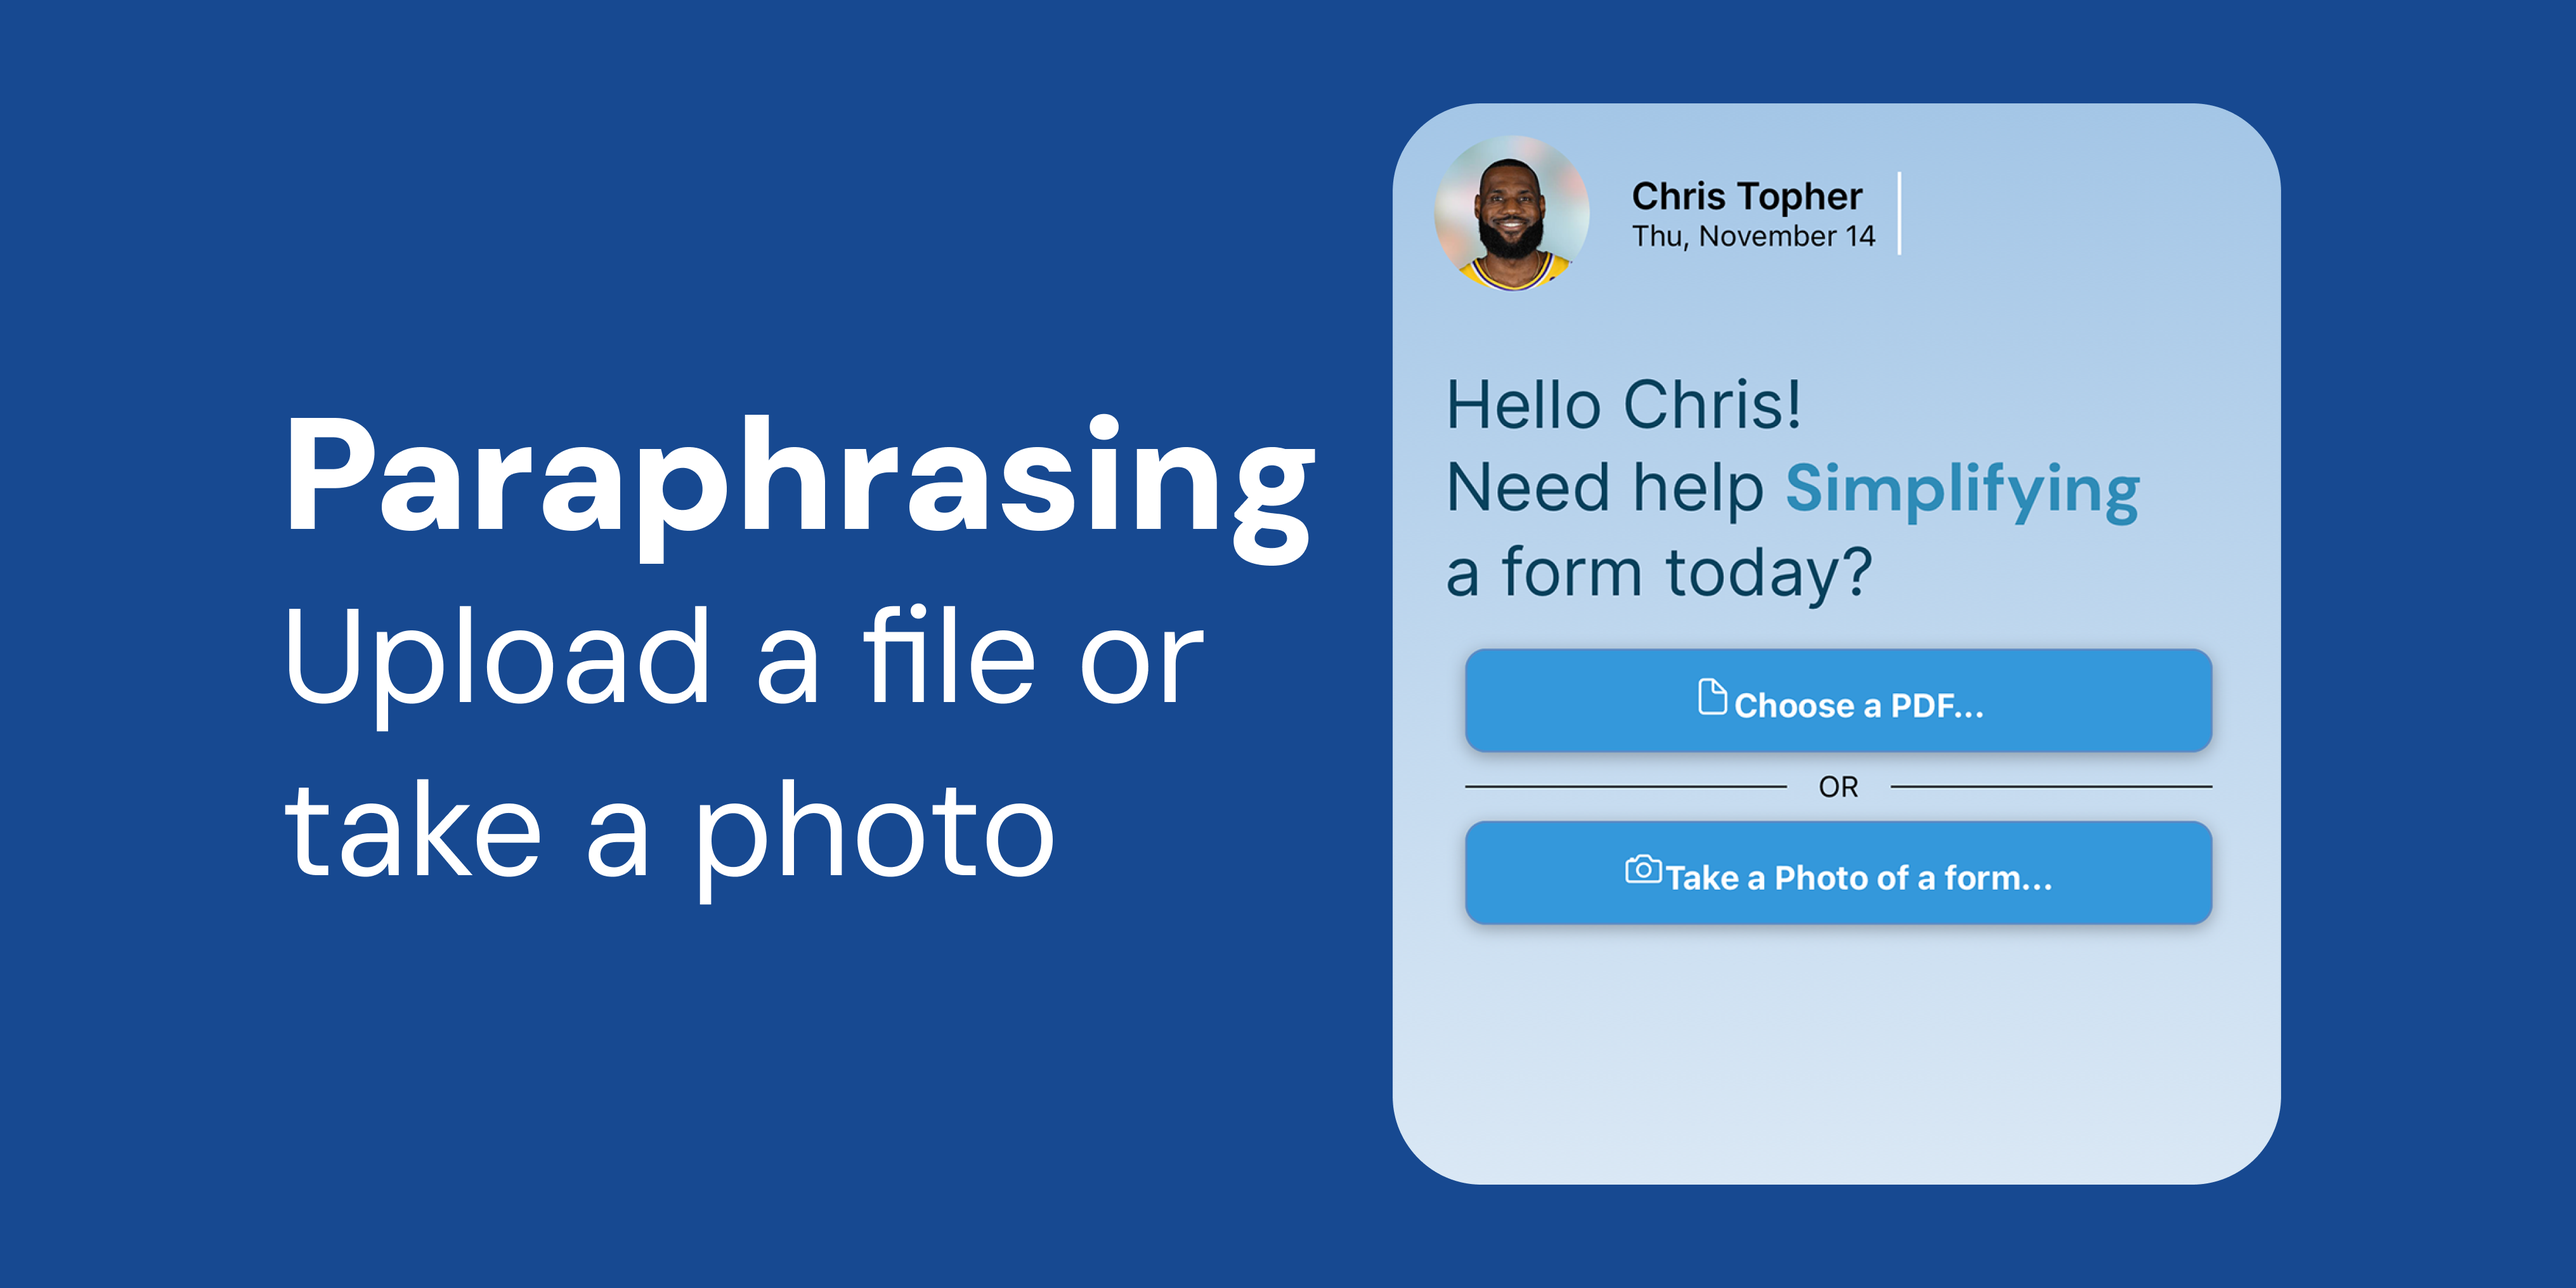
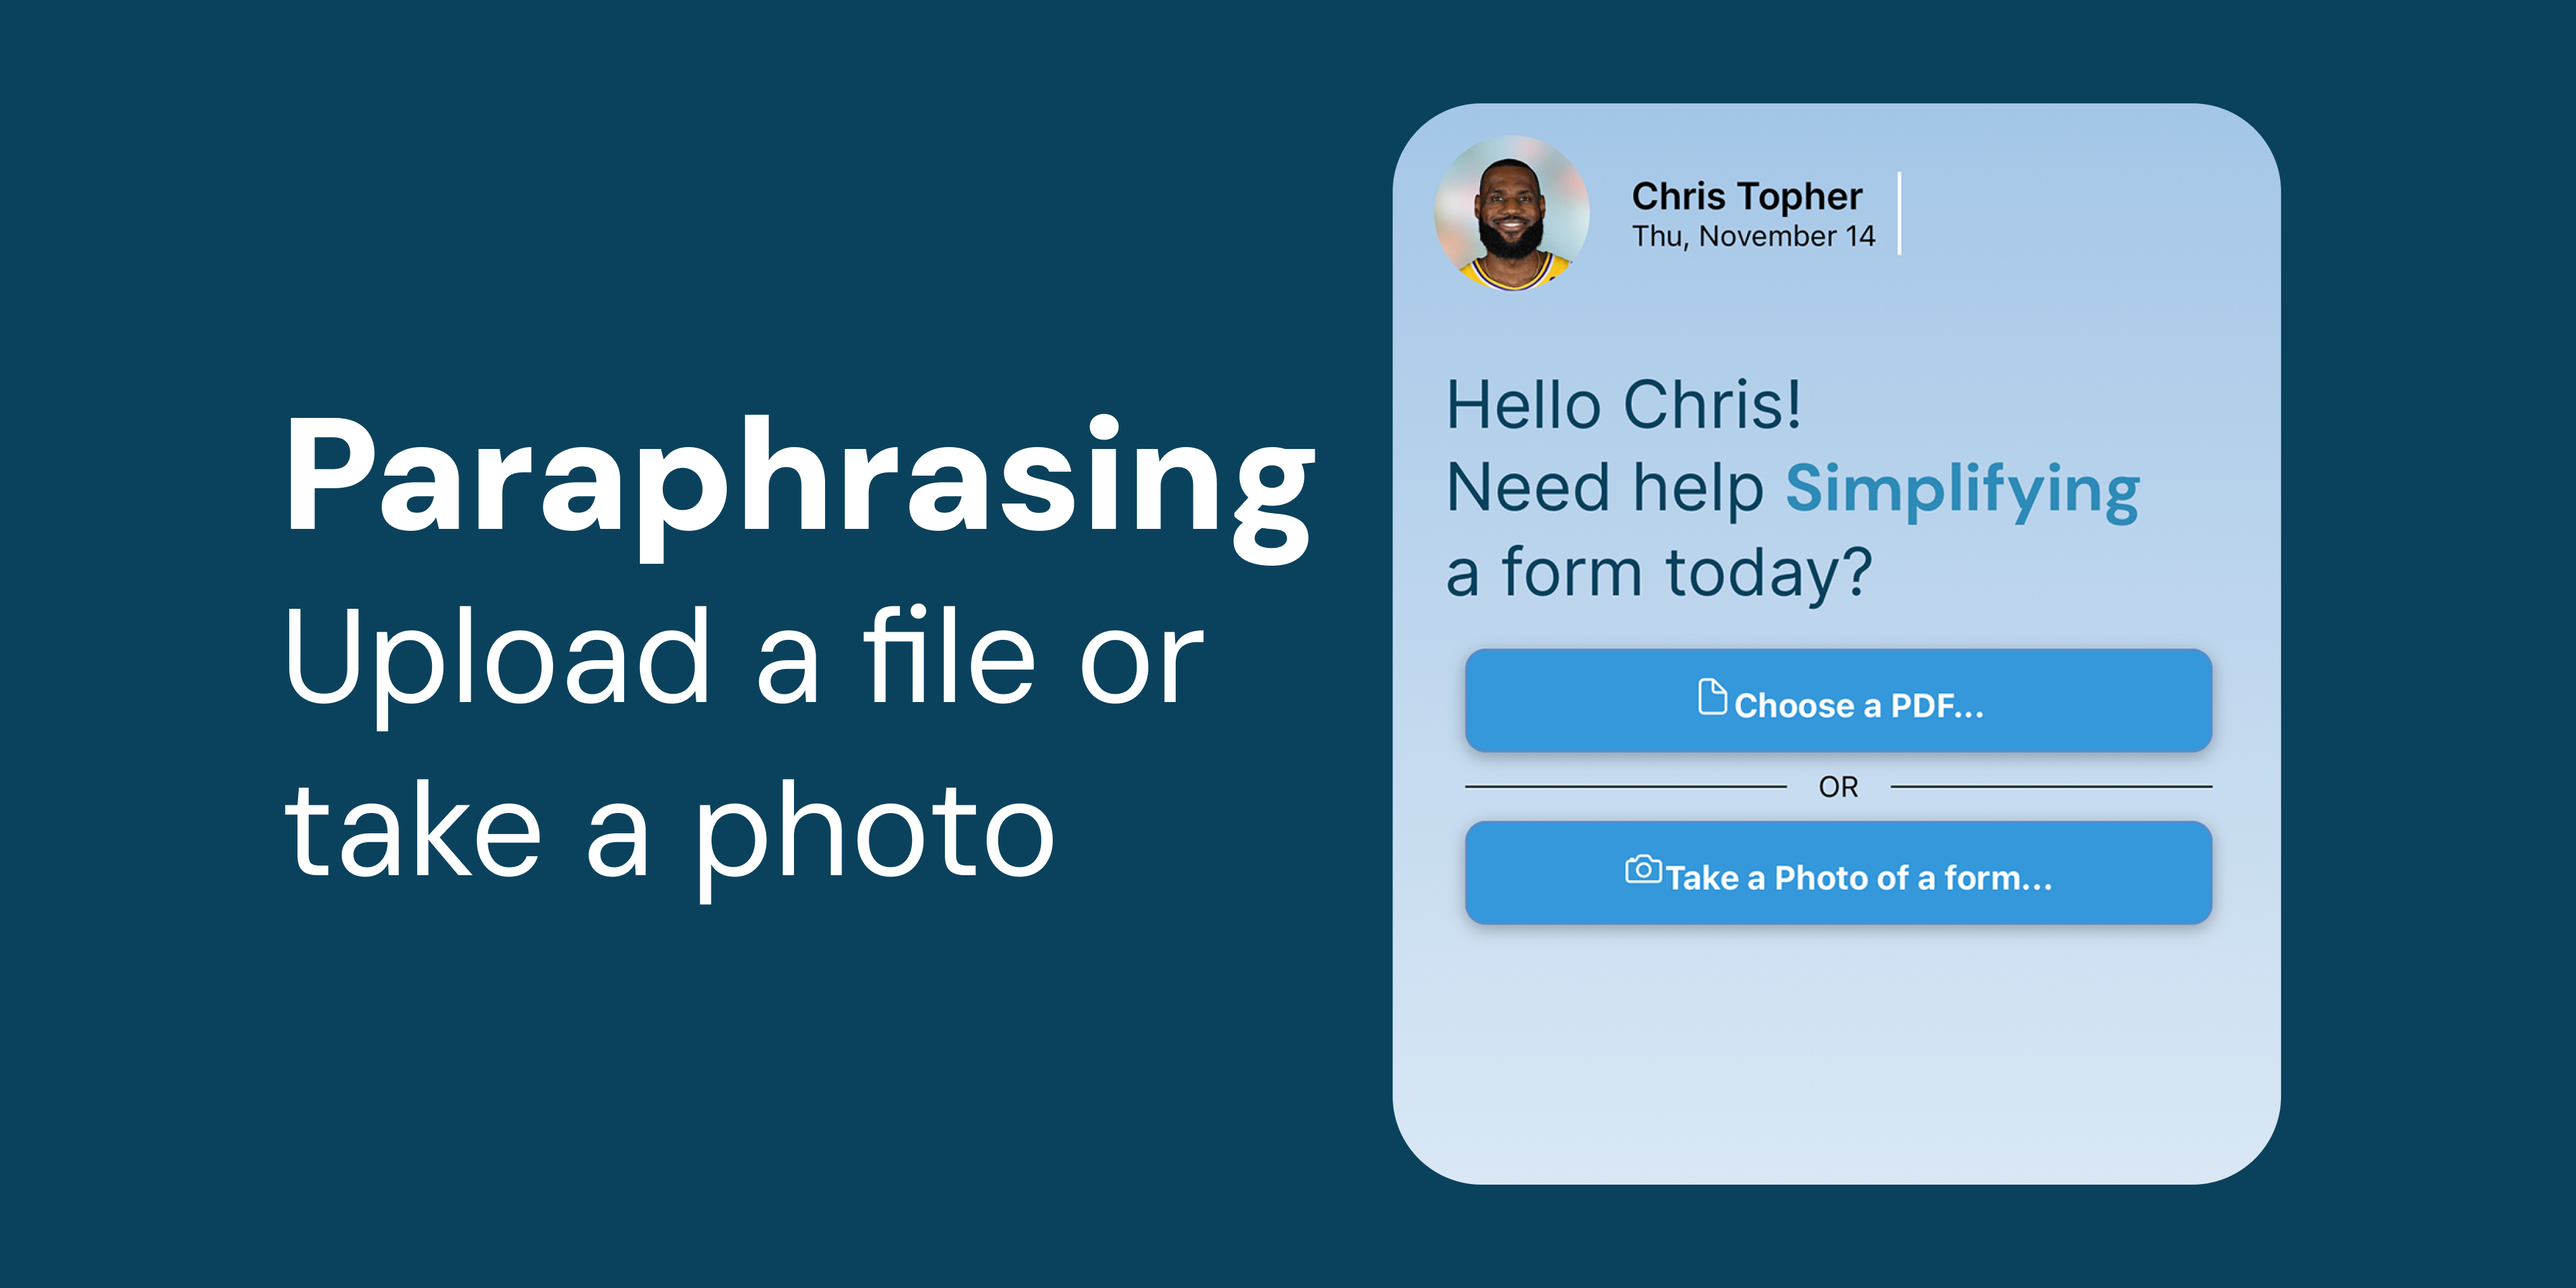
changing background colours, buttons, and adding photos

diff --git a/css/style.css b/css/style.css
@@ -20,9 +20,9 @@ img {
   --text-light: #333333;
   --background-dark: #000000;
   --text-dark: #ffffff;
-  --primary-color: #174991;
-  --secondary-color: #115cad;
-  --hover-color: #10428a;
+  --primary-color: #0a425d;
+  --secondary-color: #207fa6;
+  --hover-color: #0a425d;
   --border-color: #ddd;
   --card-background-light: #f9f9f9;
   --card-background-dark: #1e1e1e;
@@ -218,7 +218,7 @@ body {
 
 .blog-card:nth-child(2) img {
   object-fit: contain;
-  background-color: #174991;
+  background-color: #0a425d;
   object-position: center;
 }
 
@@ -232,14 +232,14 @@ body {
 }
 
 .blog-card:nth-child(5) img {
-  background-color: #174991;
+  background-color: #0a425d;
   object-fit: contain;
   object-position: center;
 }
 
 .blog-card:nth-child(6) img {
   object-position: center;
-  background-color: #174991;
+  background-color: #0a425d;
   object-fit: contain;
 }
 
